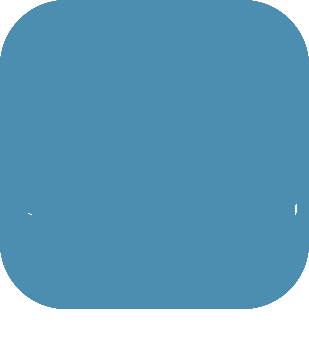
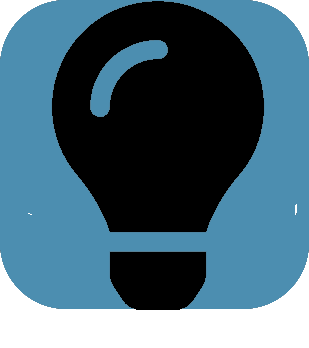
test

diff --git a/core/class/veralink.class.php b/core/class/veralink.class.php
@@ -646,7 +646,7 @@ http://192.168.0.148/core/api/jeeApi.php?apikey=xxx&type=event&plugin=veralink&i
       $configtype = $this->getConfiguration('type',null);
       if (isset($configtype)) {
          $veraconfig = veralink::getVeralinkConfig();
-         $icon = $veraconfig[$configtype]['EqIcon'];
+         $icon = ($configtype == CONFIGTYPE_ROOM) ? 'veralink_room.png' : $veraconfig[$configtype]['EqIcon'];
       }
       return isset($icon) ? 'plugins/veralink/desktop/img/'.$icon : parent::getImage();
    }
